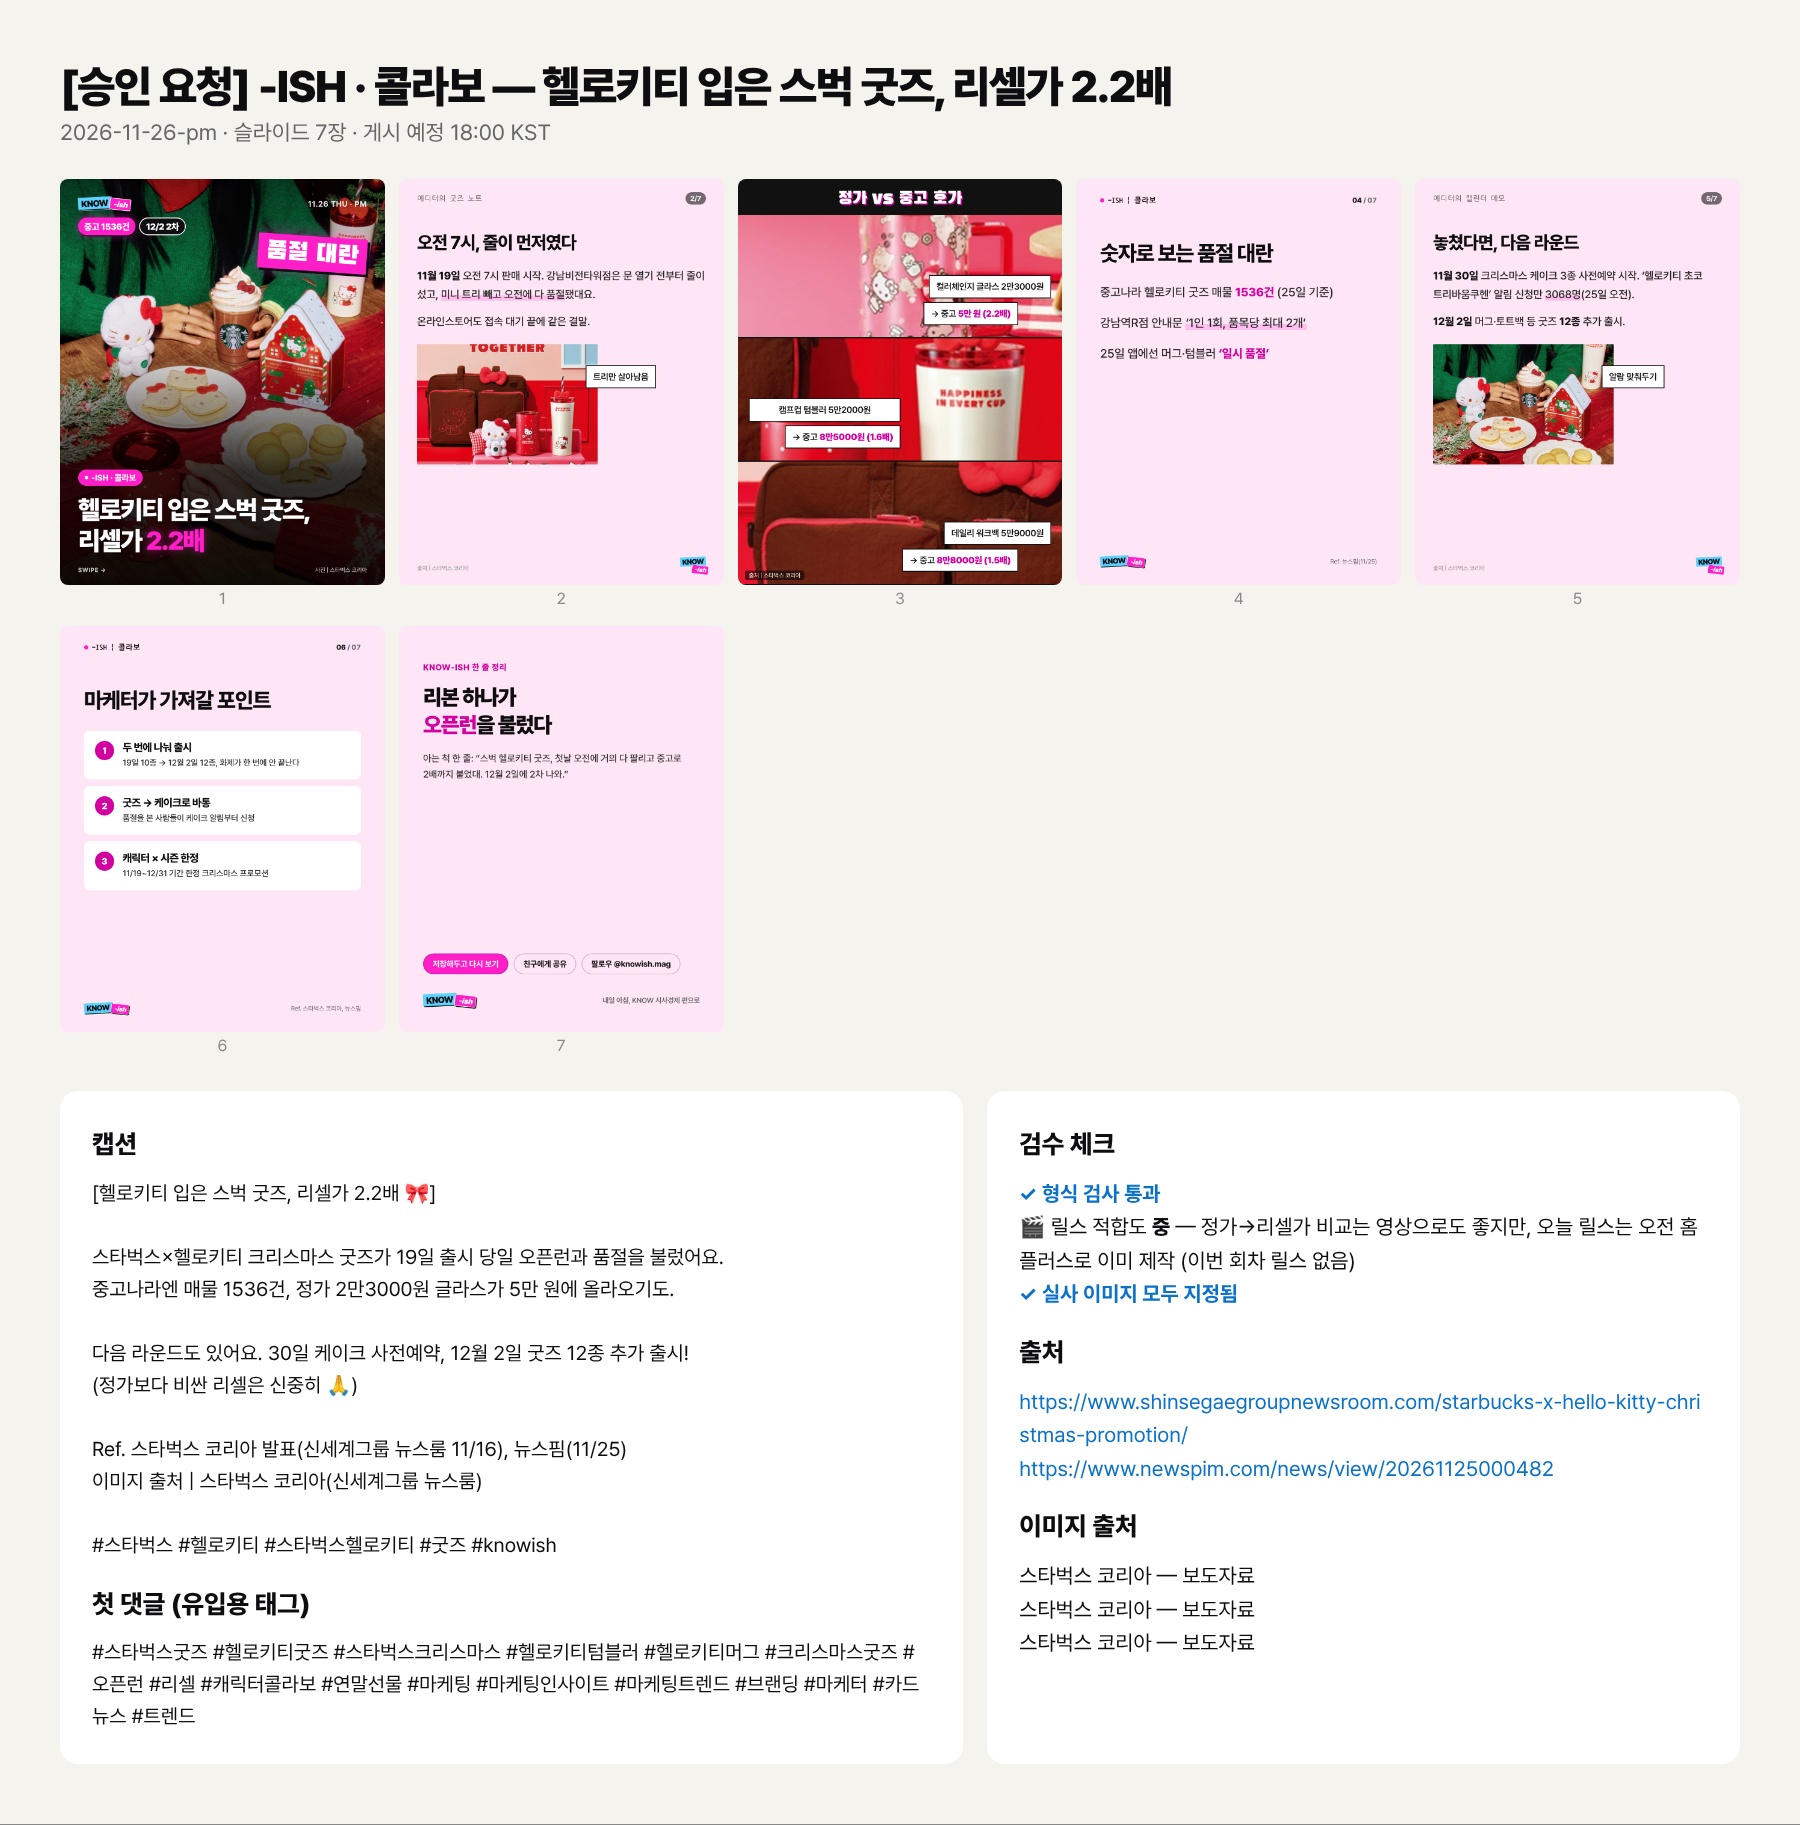
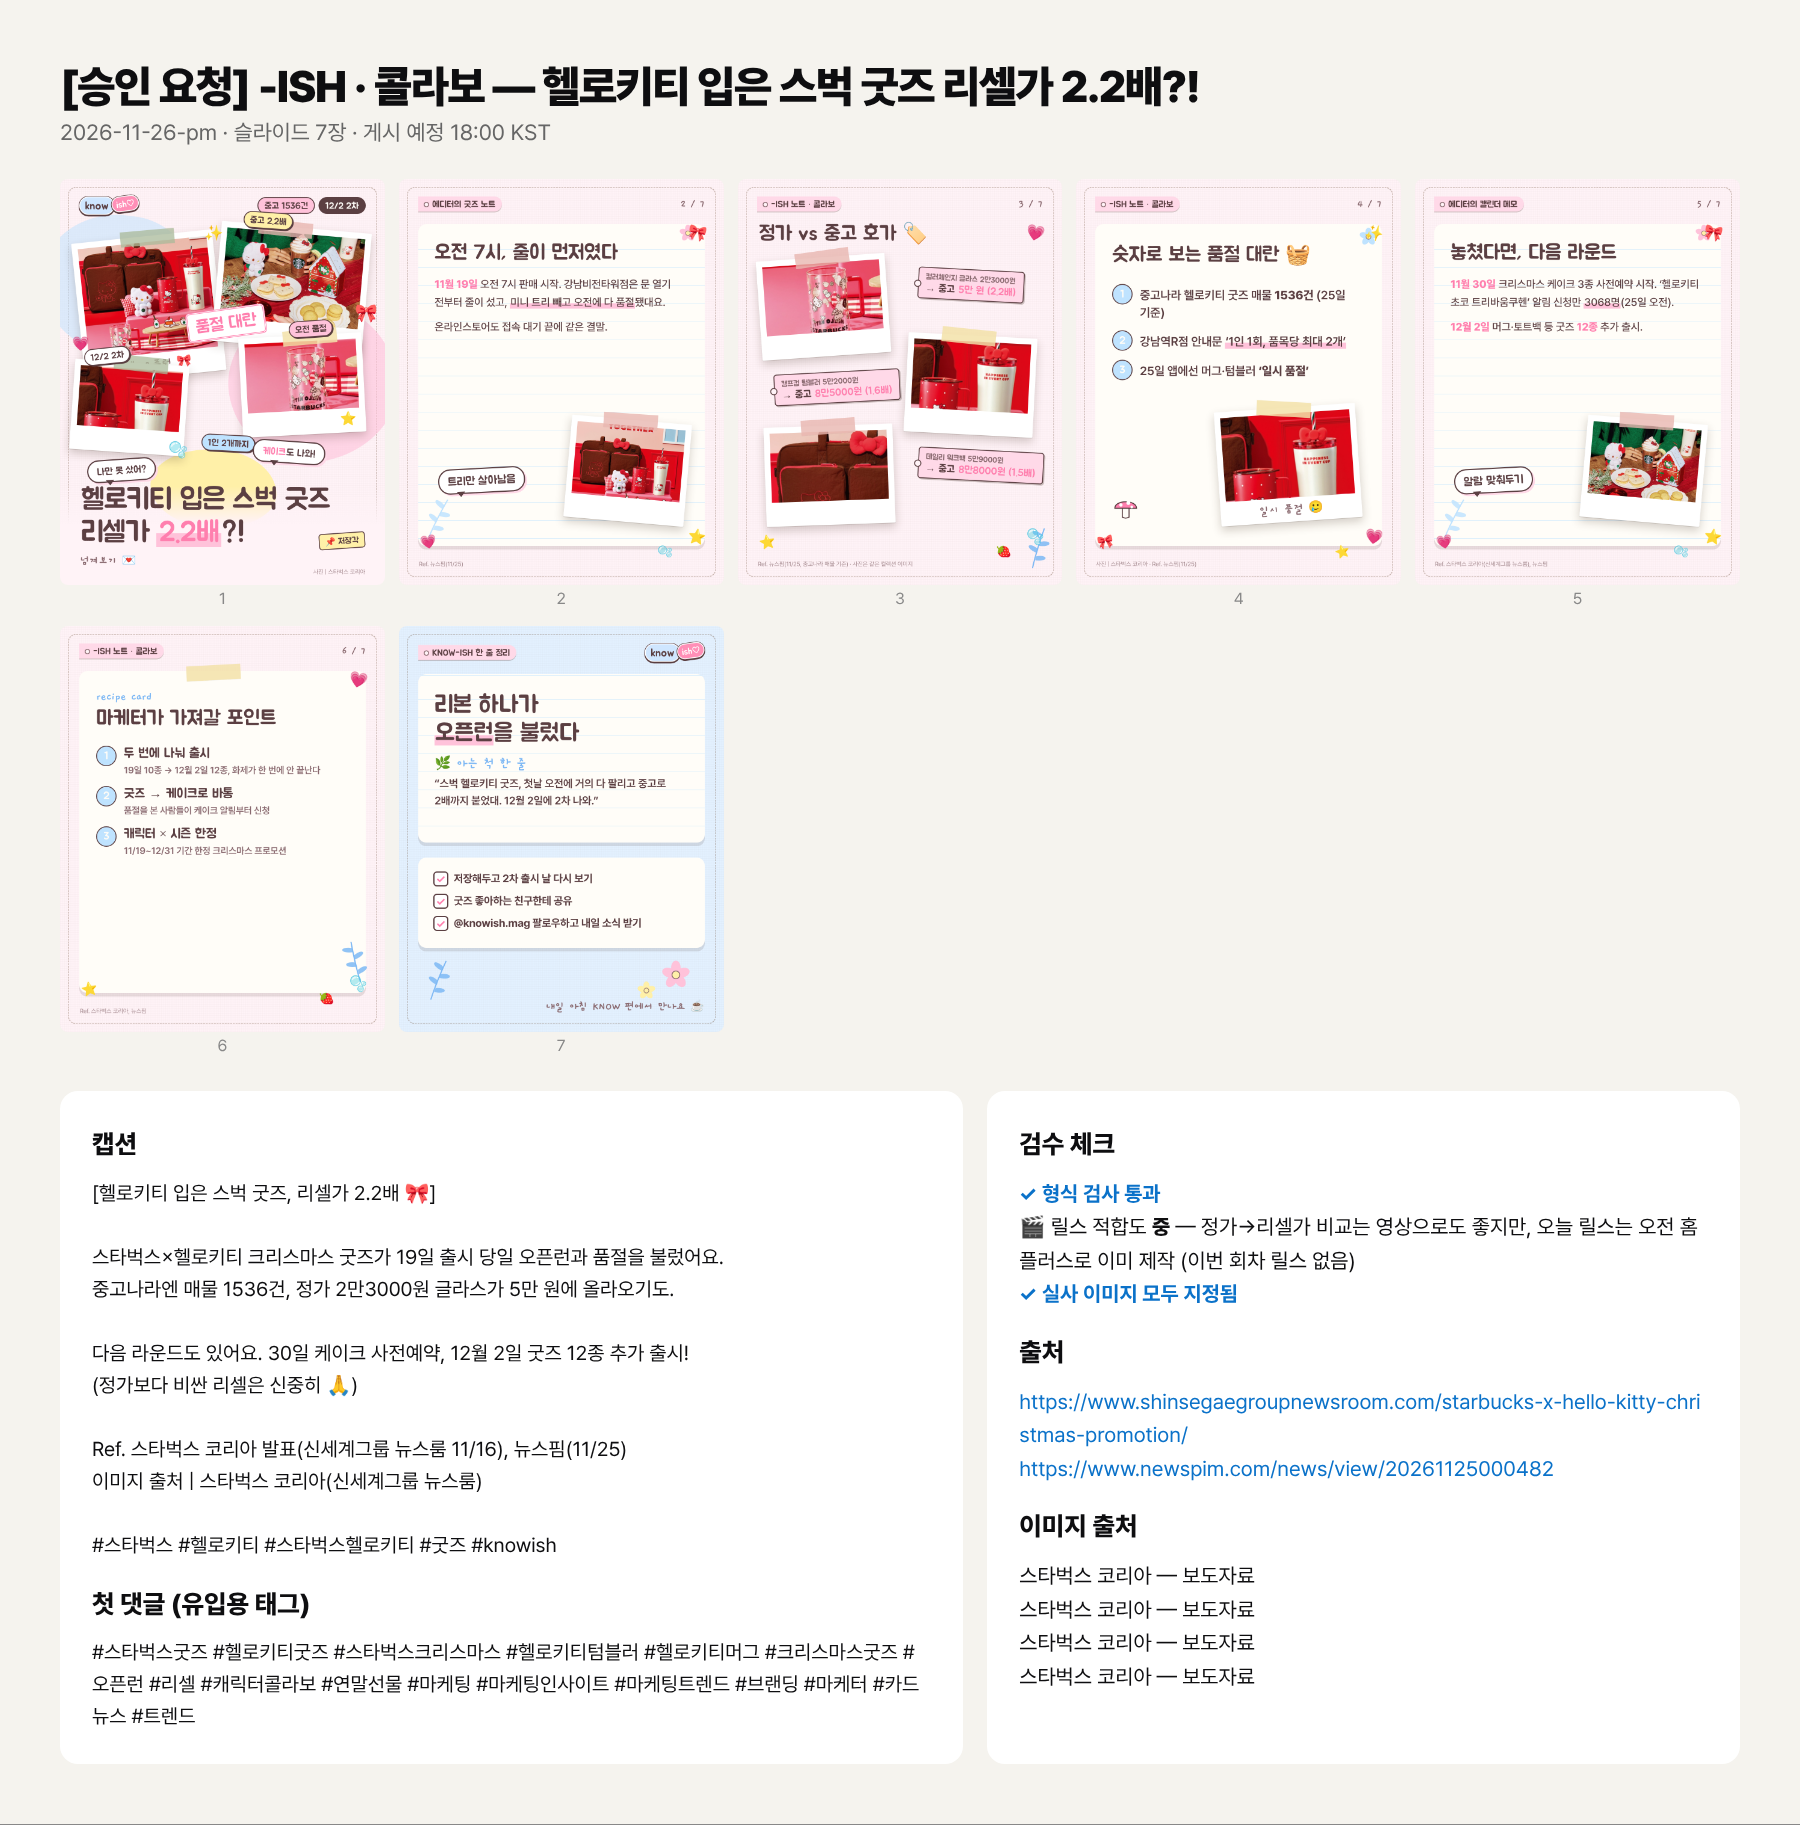
새 기본 디자인 저장: build.mjs 가 style:mori(뽀용 콜라주) 자동 렌더, 런북·/knowish 기본값 변경
Claude-Session: https://claude.ai/code/session_019qCDgtKUUxWTJuWU3cPXKC

diff --git a/onoff/AUTOMATION.md b/onoff/AUTOMATION.md
@@ -51,7 +51,7 @@
 - 릴스(`reels/*/reel.mjs`)에 로고를 넣을 땐 직접 그리지 말고 `import { logo } from '../../src/templates.mjs'` 의 `logo()` 를 쓴다.
 - 파일: `brand/profile-knowish.png`(프로필), `brand/logo-final-light|dark|transparent.png`.
 
-### 썸네일 고정 (모든 게시물 공통)
+### 썸네일 고정 (classic·mag 일 때만 — mori 는 위 '뽀용 콜라주' 표지 규칙)
 표지는 **항상 같은 틀**이다: 꽉 찬 실사 사진 + 왼쪽 위 로고 + 오른쪽 위 날짜 + 기울어진 스티커 + 시리즈 배지 + 굵은 2줄 제목(핵심 단어 시리즈색). 스타일(classic/mag)과 무관하게 바꾸지 않는다.
 허용되는 변형은 **어그로 칩(`chips`)** 하나뿐이다.
 - `"chips": ["처음 콜라보", {"text": "국내 한정", "kind": "hot"}]` — 최대 3개, 각 8자 이내. 로고 아래 한 줄에 놓인다(스티커가 왼쪽이면 오른쪽 정렬).
@@ -70,8 +70,19 @@
 - `sources`: 원고의 모든 숫자·주장을 뒷받침하는 링크.
 - `ref`: 본문 장마다 출처 기관/매체명.
 
-### 디자인 스타일 — 번갈아 쓰기
-`content.json` 의 `"style"` 로 고른다. **같은 시리즈의 직전 게시물과 다른 스타일**을 쓴다(오전 KNOW끼리, 오후 -ISH끼리 번갈아). 직전 게시물에 style 이 없으면 classic 으로 본다. 사용자가 지정하면 그걸 따른다.
+### 디자인 — 기본은 '뽀용 콜라주' (2026-11-26 확정)
+**모든 정기 회차·요청형은 기본으로 `"style": "mori", "theme": "ppo"`** 를 쓴다(렌더러 `src/mori.mjs`, `node src/build.mjs` 가 자동으로 고름). 기준 예시: `posts/2026-11-26-pm`(헬로키티).
+- 색: 밀크 핑크 바탕, 베이비 블루·버터·딸기 핑크 포인트, 코코아 글씨. 리넨 질감·점선 테두리·폴라로이드·마스킹테이프·손그림 장식·이모지 스티커(✨🎀💗⭐🫧).
+- **표지**
+  - **-ISH(오후)**: `"cover": "busy"` — 빼곡 콜라주. 표지 슬라이드에 `images`(사진 3~4장), `polCaps`(첫 사진 손글씨 캡션), `minis`(미니 칩 4개, 8자 이내), `says`(말풍선 2개), `sticker`(도장), `chips`, `title`(2줄, 핵심 단어 `==강조==`). 레퍼런스: “복잡·빼곡한 구성 = 알찬 정보 기대감”.
+  - **KNOW(오전)**: 같은 색감, 표지는 기본(폴라로이드 1장 + 도장 + 칩 + 제목). 숫자·사진이 많은 날엔 `cover: busy` 도 가능.
+- **본문 타입**: `letter`(줄 공책 에디터 노트 + 폴라로이드 + 말풍선), `meme`(폴라로이드 3장 + 크래프트 가격표 태그 — 비교·전후), `body`(번호 목록 + 선택 사진·`polCap`), `points`(레시피 카드), `outro`(아는 척 한 줄 + 저장·공유·팔로우 체크리스트).
+- 마지막 `outro.text` 는 `"아는 척 한 줄: “…”"` 형식 — 대화에서 바로 써먹을 한 문장.
+- 사진이 들어간 장이 절반 이상. 장식이 글자를 가리지 않게 review.png 로 확인.
+- 무거운 사건·사고·재난 이슈는 장식·이모지를 줄이거나 `classic` 으로(톤 판단). 사용자가 지정하면 그걸 따른다.
+
+### (참고) 예전 스타일 — `classic` / `mag`
+지금은 기본이 아니다. 사용자가 요청하거나 무거운 이슈일 때만 쓴다.
 
 | style | 느낌 | 본문에 쓰는 타입 |
 |---|---|---|

diff --git a/.claude/skills/knowish/SKILL.md b/.claude/skills/knowish/SKILL.md
@@ -22,7 +22,7 @@ argument-hint: <주제나 링크> [KNOW|-ISH] [장수] [톤·요청사항]
 | 시리즈 | 시사·경제·정치·정책·사회 → `on`(KNOW, 하늘). 마케팅·브랜드·캠페인·트렌드·밈·팝업 → `off`(-ISH, 마젠타). 애매하면 깊이로 판단: "왜/영향" 설명이 핵심이면 KNOW |
 | 장수 | KNOW 7장, -ISH 6장 (요청 시 KNOW 6~9, -ISH 5~7 안에서) |
 | 톤 | 시리즈 기본 톤. 사용자가 원하는 톤("더 가볍게", "숫자 위주", "비교 위주")이 있으면 반영 |
-| 스타일 | 본문(2장~)만 해당. 같은 시리즈 직전 게시물과 다른 것(`classic` ↔ `mag`). 사용자가 "매거진 톤", "밈 스타일", "정보형" 등으로 말하면 그대로. 자세한 건 런북 '디자인 스타일' |
+| 스타일 | **기본 `mori` + `theme: ppo`(뽀용 콜라주)**, -ISH 는 `cover: busy`. 런북 '디자인 — 기본은 뽀용 콜라주'. 예전 classic/mag 는 요청 시만. (구) 같은 시리즈 직전 게시물과 다른 것(`classic` ↔ `mag`). 사용자가 "매거진 톤", "밈 스타일", "정보형" 등으로 말하면 그대로. 자세한 건 런북 '디자인 스타일' |
 | 속보 여부 | 방금 나온 공식 발표·확정 결정이면 **속보** — 런북 '속보 규칙'대로 실제 날짜·즉시 게시, 다음 날 슬롯으로 미루지 않음. 릴스도 예외로 바로 |
 | 게시물 ID | `YYYY-MM-DD-req-<영문슬러그>` (KST 날짜, 예: `2026-11-20-req-gongcha-hp`) |
 

diff --git a/onoff/posts/2026-11-26-pm/review.md b/onoff/posts/2026-11-26-pm/review.md
@@ -34,5 +34,6 @@ Ref. 스타벅스 코리아 발표(신세계그룹 뉴스룸 11/16), 뉴스핌(1
 - 스타벅스 코리아 · 보도자료
 - 스타벅스 코리아 · 보도자료
 - 스타벅스 코리아 · 보도자료
+- 스타벅스 코리아 · 보도자료
 
 승인하려면 이 세션에 **"승인"**, 수정하려면 바꿀 내용을 적어주세요.
